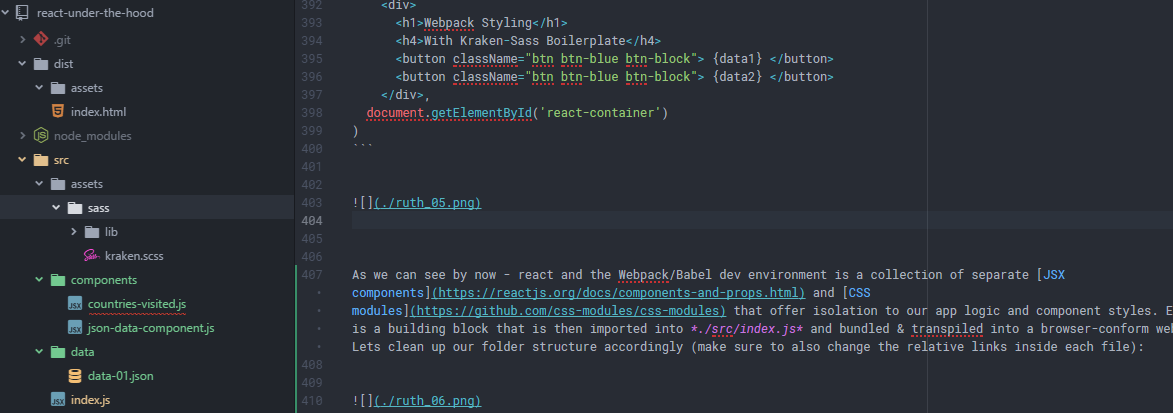
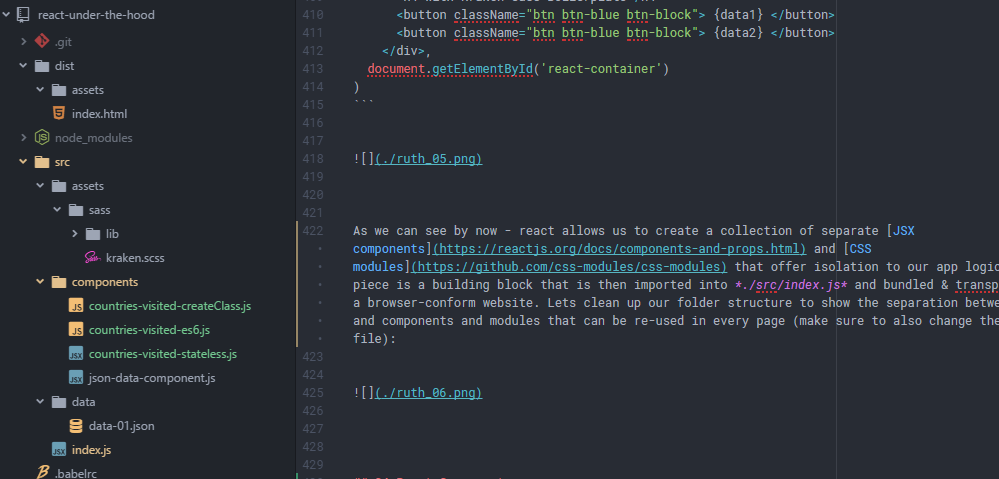
update

diff --git a/src/components/countries-visited-es6.js b/src/components/countries-visited-es6.js
@@ -1,11 +1,5 @@
 import '../assets/sass/kraken.scss'
 
-// http://www.worldometers.info/geography/how-many-countries-are-there-in-the-world/
-
-// https://www.npmjs.com/package/react-icons
-
-// http://gorangajic.github.io/react-icons/go.html
-
 const percentToDecimal = (decimal) => {
   return ((decimal * 100) + '%')
 }
@@ -14,57 +8,33 @@ const calcTravelProgress = (visited, goal) => {
   return percentToDecimal (visited/goal)
 }
 
-export const CountriesVisited = ({ total, visited, wished, goal }) => (
+export const CountriesVisitedES6 = (props) => (
 
   <div className="countries-visited">
+    <hr/>
+    <h3>This Data is calculated inside an ES6 Class Component</h3>
     <div className="total-contries">
-      <span>{total} </span>
+      <span>{props.total} </span>
       <span>total countries</span>
     </div>
     <div className="visited">
-      <span>{visited} </span>
+      <span>{props.visited} </span>
       <span>visited countries</span>
     </div>
     <div className="wish-list">
-      <span>{wished} </span>
+      <span>{props.wished} </span>
       <span>countries on wishlist</span>
     </div>
     <div>
       <span>{calcTravelProgress (
-                visited,
-                goal
+                props.visited,
+                props.goal
             )}
       </span>
       <span> Completion</span>
     </div>
   </div>
 )
-
-// export const CountriesVisited = (props) => (
-//
-//   <div className="countries-visited">
-//     <div className="total-contries">
-//       <span>{props.total} </span>
-//       <span>total countries</span>
-//     </div>
-//     <div className="visited">
-//       <span>{props.visited} </span>
-//       <span>visited countries</span>
-//     </div>
-//     <div className="wish-list">
-//       <span>{props.wished} </span>
-//       <span>countries on wishlist</span>
-//     </div>
-//     <div>
-//       <span>{calcTravelProgress (
-//                 props.visited,
-//                 props.goal
-//             )}
-//       </span>
-//       <span> Completion</span>
-//     </div>
-//   </div>
-// )
 
 // import { Component } from 'react'
 //

diff --git a/src/components/countries-visited-createClass.js b/src/components/countries-visited-createClass.js
@@ -1,0 +1,41 @@
+import React from 'react'
+import '../assets/sass/kraken.scss'
+
+// cannot be rendered inside react 16 - you need to downgrade your react and reactDom version to react 15 or smaller
+
+export const CountriesVisited = React.createClass({
+	percentToDecimal(decimal) {
+		return ((decimal * 100) + '%')
+	},
+	calcGoalProgress(total, goal) {
+		return this.percentToDecimal(total/goal)
+	},
+	render() {
+		return (
+			<div className="countries-visited">
+        <hr/>
+        <h3>The React.createClass Syntax is no longer supported inside React v16!</h3>
+				<div className="total-contries">
+					<span>{this.props.total} </span>
+					<span>total countries</span>
+				</div>
+				<div className="visited">
+					<span>{this.props.powder} </span>
+					<span>visited countries</span>
+				</div>
+				<div className="wish-list">
+					<span>{this.props.backcountry} </span>
+					<span>countries on wishlist</span>
+				</div>
+				<div>
+					<span>
+						{this.calcGoalProgress(
+							this.props.total,
+							this.props.goal
+						)}
+					</span>
+				</div>
+			</div>
+		)
+	}
+})

diff --git a/src/index.js b/src/index.js
@@ -3,22 +3,29 @@ import { render } from 'react-dom'
 
 import {data1, data2} from './components/json-data-component'
 import './assets/sass/kraken.scss'
-import { CountriesVisited } from './components/countries-visited'
+import { CountriesVisitedStateless } from './components/countries-visited-stateless'
+import { CountriesVisitedES6 } from './components/countries-visited-es6'
 
 window.React = React
 
-render(
+render (
 		<div>
 			<h1>Wanderlust</h1>
-			<h4>Countries visited & Wishlist</h4>
+			<h2>Countries visited & Wishlist</h2>
 
-			<CountriesVisited total={196}
-												visited={16}
-												wished={100}
-												goal={96}/>
+			<CountriesVisitedStateless total={196}
+																	visited={16}
+																	wished={100}
+																	goal={96}/>
 
 	    <button className="btn btn-blue btn-block"> {data1} </button>
 			<button className="btn btn-blue btn-block"> {data2} </button>
+
+				<CountriesVisitedES6 total={196}
+														visited={86}
+														wished={186}
+														goal={96}/>
+
   	</div>,
 	document.getElementById('react-container')
 )

diff --git a/src/components/countries-visited-stateless.js b/src/components/countries-visited-stateless.js
@@ -1,0 +1,37 @@
+import '../assets/sass/kraken.scss'
+
+const percentToDecimal = (decimal) => {
+  return ((decimal * 100) + '%')
+}
+
+const calcTravelProgress = (visited, goal) => {
+  return percentToDecimal (visited/goal)
+}
+
+export const CountriesVisitedStateless = ({ total, visited, wished, goal }) => (
+
+  <div className="countries-visited">
+    <hr/>
+    <h3>This Data is calculated inside a stateless Component</h3>
+    <div className="total-contries">
+      <span>{total} </span>
+      <span>total countries</span>
+    </div>
+    <div className="visited">
+      <span>{visited} </span>
+      <span>visited countries</span>
+    </div>
+    <div className="wish-list">
+      <span>{wished} </span>
+      <span>countries on wishlist</span>
+    </div>
+    <div>
+      <span>{calcTravelProgress (
+                visited,
+                goal
+            )}
+      </span>
+      <span> Completion</span><br/><br/>
+    </div>
+  </div>
+)

diff --git a/README.md b/README.md
@@ -15,8 +15,11 @@ React is often said to be easy to learn, but impossible to set up in an dev envi
 
 01. [Pure React](#01-pure-react)
 02. [JSX and Babel](#02-jsx-and-babel)
+	* [Transpilation](#transpilation)
 03. [Webpack](#03-webpack)
-04. []()
+	* [Loading JSON](#loading-json)
+	* [Adding SASS](#adding-sass)
+04. [React Components](#react-components)
 
 
 
@@ -142,6 +145,11 @@ render(
 
 Since our webbrowser don't understand JSX, we will have to transpile it to pure Javascript using Babel - this can be quickly done with the babel-cli transpiler. Let us first initialize our node project by *npm init -y* then install the babel-cli both globally as well as a development dependency inside our project:
 
+
+
+
+### Transpilation
+
 ```
 npm install -g babel-cli
 
@@ -247,6 +255,11 @@ Let us now use Webpack to load our react dependencies - instead of linking them 
 npm install --save react react-dom
 ```
 
+
+
+
+### Loading JSON
+
 And to demonstrate the function of module loading, we want to use some JSON data, being loaded into our react app by Webpack:
 
 ```
@@ -335,6 +348,8 @@ Notice that we need to import *react-dom* here, since **render** is not part of 
 
 
 
+### Adding SASS
+
 The same principle can be applied to add styles to our react app app - lets try to add some [SASS](http://sass-lang.com/) to our app with the [Kraken-Sass](http://jwebcat.github.io/kraken-sass/index.html) boilerplate:
 
 First we want to install the Webpack loaders for the job of preprocess the source [SASS](http://sass-lang.com/guide) into proper CSS:
@@ -404,11 +419,25 @@ render(
 
 
 
-As we can see by now - react and the Webpack/Babel dev environment is a collection of separate [JSX components](https://reactjs.org/docs/components-and-props.html) and [CSS modules](https://github.com/css-modules/css-modules) that offer isolation to our app logic and component styles. Each piece is a building block that is then imported into *./src/index.js* and bundled & transpiled into a browser-conform website. Lets clean up our folder structure accordingly (make sure to also change the relative links inside each file):
+As we can see by now - react allows us to create a collection of separate [JSX components](https://reactjs.org/docs/components-and-props.html) and [CSS modules](https://github.com/css-modules/css-modules) that offer isolation to our app logic and component styles. Each piece is a building block that is then imported into *./src/index.js* and bundled & transpiled by Webpack/Babel into a browser-conform website. Lets clean up our folder structure to show the separation between main pages (index.js) and components and modules that can be re-used in every page (make sure to also change the relative links inside each file):
 
 
 ![](./ruth_06.png)
 
+
+
+
+## 04 React Components
+
+Let us now build a small component that list [how many countries] there are in the world, how many we have visited and how much we want to visit in total. We can also add a little bit of math to it and calculate the completion percentage of our endeavor. When you look at code examples on Github, you will find a couple of different ways to write such a component. The first, and oldest one uses the **createClass** syntax and will no longer work in react v16.
+
+
+
+
+
+https://www.npmjs.com/package/react-icons
+
+http://gorangajic.github.io/react-icons/go.html
 
 
 
